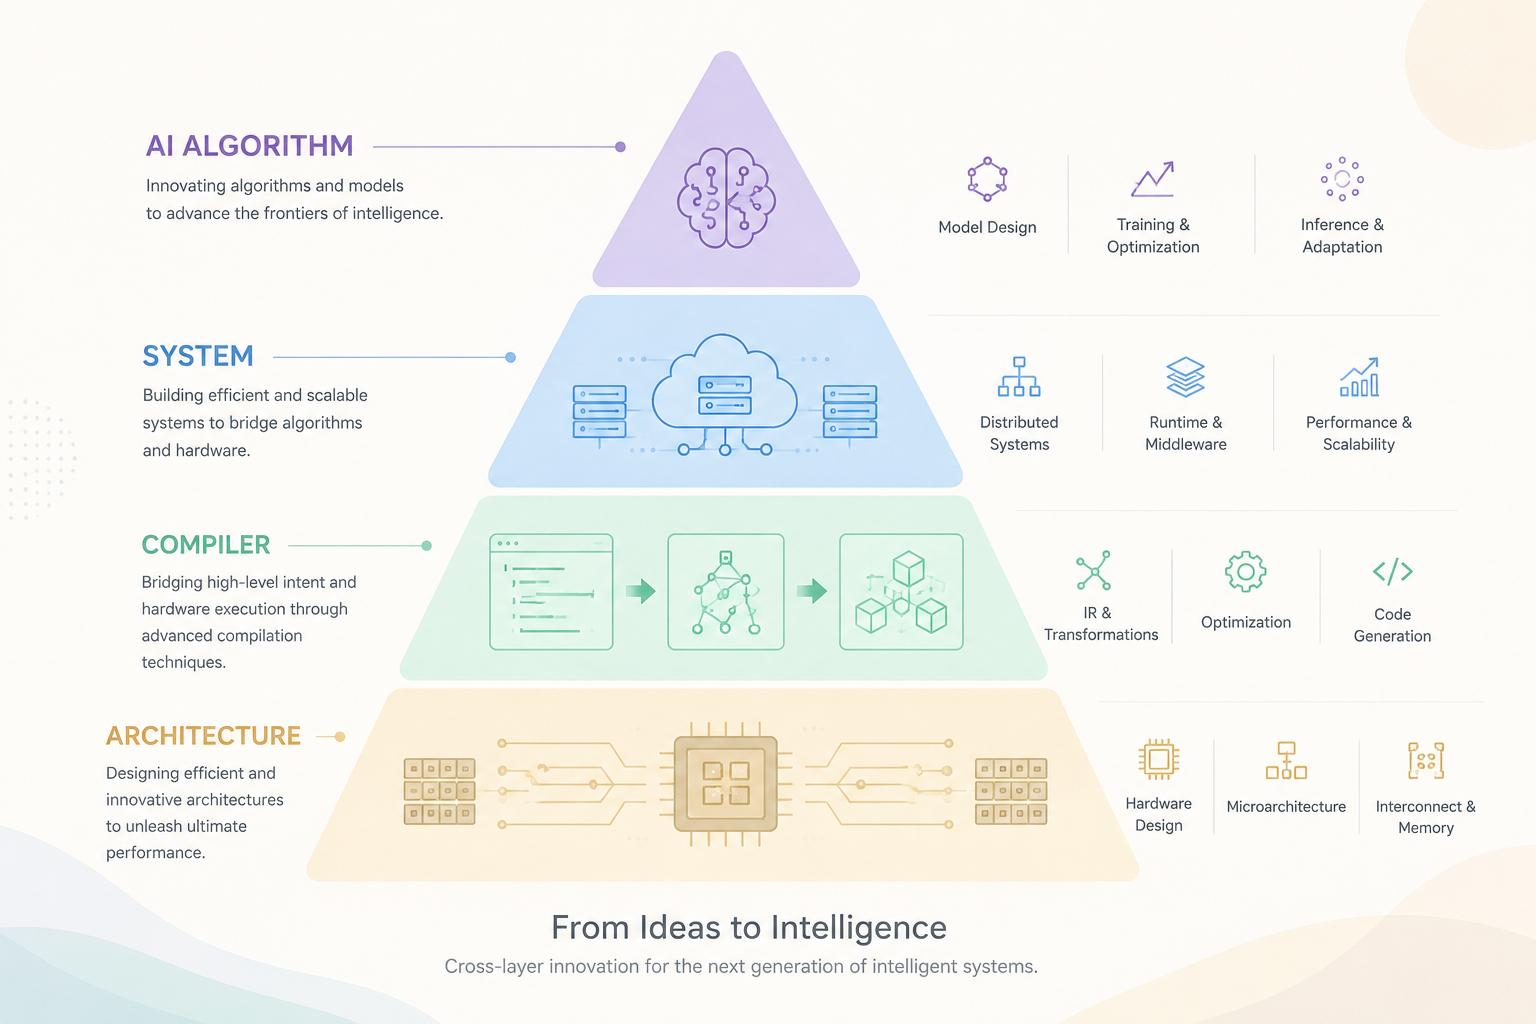
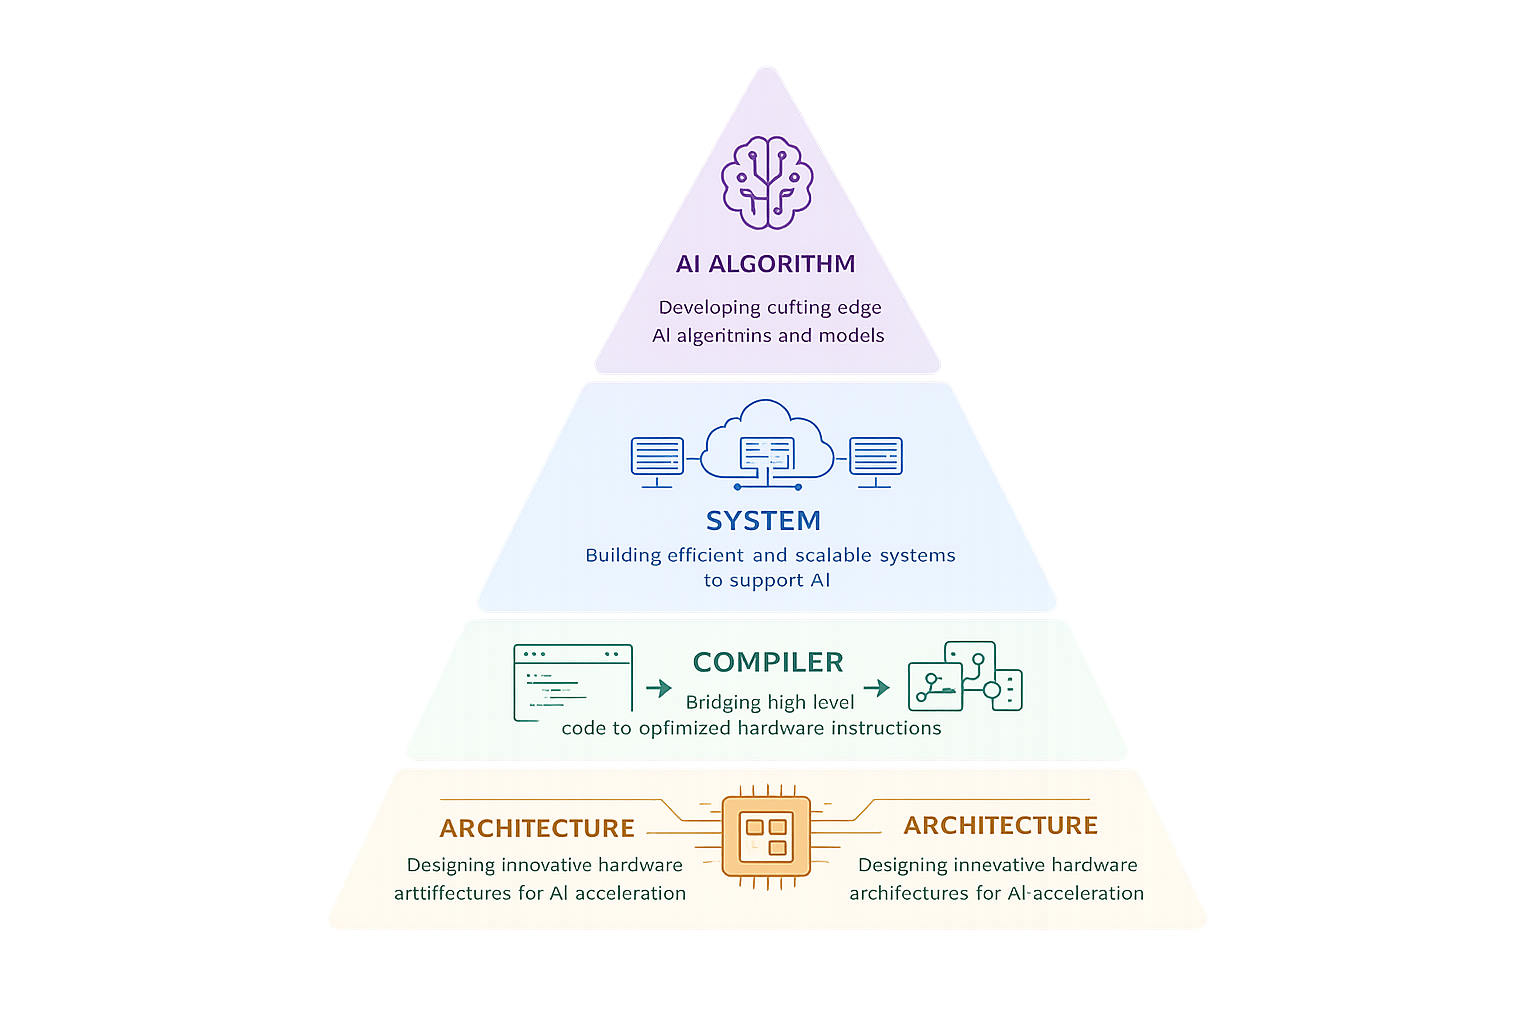
update pages

diff --git a/src/data/team.ts b/src/data/team.ts
@@ -1,0 +1,75 @@
+import { pathFor } from "@/utils/paths";
+
+type TeamType = "instructor" | "phd" | "master" | "undergraduate" | "graduated";
+
+type TeamFrontmatter = {
+  name: string;
+  role: string;
+  type: TeamType;
+  order?: number;
+};
+
+type TeamMarkdownModule = {
+  frontmatter: TeamFrontmatter;
+  Content: any;
+};
+
+const sectionConfig: Array<{ type: TeamType; title: string; description: string }> = [
+  {
+    type: "instructor",
+    title: "Instructor",
+    description: "Faculty and principal investigators.",
+  },
+  {
+    type: "phd",
+    title: "PhD Students",
+    description: "Doctoral students and long-term research leads.",
+  },
+  {
+    type: "master",
+    title: "Master Students",
+    description: "Master students working on thesis and research projects.",
+  },
+  {
+    type: "undergraduate",
+    title: "Undergraduates",
+    description: "Undergraduate researchers and project assistants.",
+  },
+  {
+    type: "graduated",
+    title: "Graduated",
+    description: "Alumni and former visiting members.",
+  },
+];
+
+const memberModules = import.meta.glob<TeamMarkdownModule>("../content/team/*/index.md", {
+  eager: true,
+});
+
+const avatarModules = import.meta.glob<string>("../content/team/*/avatar.{avif,gif,jpeg,jpg,png,svg,webp}", {
+  eager: true,
+  import: "default",
+  query: "?url",
+});
+
+const folderFromPath = (path: string) => path.split("/").at(-2) ?? "";
+
+const members = Object.entries(memberModules)
+  .map(([path, module]) => {
+    const folder = folderFromPath(path);
+    const avatarEntry = Object.entries(avatarModules).find(([avatarPath]) => folderFromPath(avatarPath) === folder);
+
+    return {
+      ...module.frontmatter,
+      Content: module.Content,
+      avatar: avatarEntry?.[1] ?? pathFor("/team-placeholder.svg"),
+    };
+  })
+  .sort((a, b) => (a.order ?? 999) - (b.order ?? 999) || a.name.localeCompare(b.name));
+
+export const teamSections = sectionConfig
+  .map((section) => ({
+    ...section,
+    members: members.filter((member) => member.type === section.type),
+  }))
+  .filter((section) => section.members.length > 0);

diff --git a/src/data/awards.ts b/src/data/awards.ts
@@ -1,5 +1,6 @@
 type AwardFrontmatter = {
-  year: string | number;
+  date?: string | Date;
+  year?: string | number;
   title: string;
   summary: string;
   order?: number;
@@ -14,16 +15,24 @@ const modules = import.meta.glob<AwardMarkdownModule>("../content/awards/*/index
   eager: true,
 });
 
+const formatYearMonth = (value: string | number | Date | undefined) => {
+  if (value instanceof Date) {
+    return value.toISOString().slice(0, 7);
+  }
+
+  return String(value ?? "").slice(0, 7);
+};
+
 export const awards = Object.values(modules)
   .map((module) => ({
     ...module.frontmatter,
-    year: String(module.frontmatter.year),
+    date: formatYearMonth(module.frontmatter.date ?? module.frontmatter.year),
     description: module.frontmatter.summary,
     Content: module.Content,
   }))
   .sort(
     (a, b) =>
-      Number(b.year) - Number(a.year) ||
+      b.date.localeCompare(a.date) ||
       (a.order ?? 999) - (b.order ?? 999) ||
       a.title.localeCompare(b.title),
   );

diff --git a/src/data/publications.ts b/src/data/publications.ts
@@ -4,7 +4,8 @@ type PublicationLink = {
 };
 
 type PublicationFrontmatter = {
-  year: string | number;
+  date?: string | Date;
+  year?: string | number;
   title: string;
   authors: string;
   venue: string;
@@ -21,16 +22,24 @@ const modules = import.meta.glob<PublicationMarkdownModule>("../content/publicat
   eager: true,
 });
 
+const formatYearMonth = (value: string | number | Date | undefined) => {
+  if (value instanceof Date) {
+    return value.toISOString().slice(0, 7);
+  }
+
+  return String(value ?? "").slice(0, 7);
+};
+
 export const publications = Object.values(modules)
   .map((module) => ({
     ...module.frontmatter,
-    year: String(module.frontmatter.year),
+    date: formatYearMonth(module.frontmatter.date ?? module.frontmatter.year),
     links: module.frontmatter.links ?? [],
     Content: module.Content,
   }))
   .sort(
     (a, b) =>
-      Number(b.year) - Number(a.year) ||
+      b.date.localeCompare(a.date) ||
       (a.order ?? 999) - (b.order ?? 999) ||
       a.title.localeCompare(b.title),
   );

diff --git a/src/styles/global.css b/src/styles/global.css
@@ -378,11 +378,19 @@ p {
 
 .publication,
 .award {
+  align-items: start;
   border-bottom: 1px solid var(--line);
   display: grid;
-  gap: 16px;
-  grid-template-columns: 92px minmax(0, 1fr);
+  gap: 20px;
+  grid-template-columns: 116px minmax(0, 1fr);
   padding: 22px 0;
+}
+
+.publication > .meta,
+.award > .meta {
+  line-height: 1.08;
+  margin-bottom: 0;
+  padding-top: 0.16em;
 }
 
 .publication:first-child,

diff --git a/README.md b/README.md
@@ -50,6 +50,8 @@ Edit site content in `src/data/`:
 - `src/content/awards/<award-folder>/index.md` for awards
 - `src/content/team/<member-folder>/index.md` and `avatar.*` for team members
 
+The matching `src/data/*.ts` files are loaders that scan these folders and sort entries for the pages.
+
 News folders:
 
 ```text
@@ -77,7 +79,7 @@ src/content/publications/paper-slug/
 
 ```md
 ---
-year: 2026
+date: 2026-07
 title: Paper Title
 authors: First Author and Second Author
 venue: Conference Name
@@ -99,7 +101,7 @@ src/content/awards/award-slug/
 
 ```md
 ---
-year: 2026
+date: 2026-07
 title: Best Paper Award
 summary: Short text shown on the homepage.
 order: 1

diff --git a/src/content/awards/best-paper-award/index.md b/src/content/awards/best-paper-award/index.md
@@ -1,5 +1,5 @@
 ---
-year: 2026
+date: 2026-07
 title: Best Paper Award
 summary: Replace with award details, recipient names, and venue.
 order: 1

diff --git a/src/content/awards/research-grant/index.md b/src/content/awards/research-grant/index.md
@@ -1,5 +1,5 @@
 ---
-year: 2025
+date: 2025-10
 title: Research Grant
 summary: Add sponsor, project name, and funding period.
 order: 2

diff --git a/src/content/publications/placeholder-paper-title/index.md b/src/content/publications/placeholder-paper-title/index.md
@@ -1,5 +1,5 @@
 ---
-year: 2026
+date: 2026-07
 title: A Placeholder Paper Title for Your Lab
 authors: First Author, Second Author, and Principal Investigator
 venue: Conference or Journal Name

diff --git a/src/content/publications/representative-publication/index.md b/src/content/publications/representative-publication/index.md
@@ -1,5 +1,5 @@
 ---
-year: 2025
+date: 2025-11
 title: Another Representative Publication Entry
 authors: Student Name and Collaborator Name
 venue: Workshop or Symposium Name